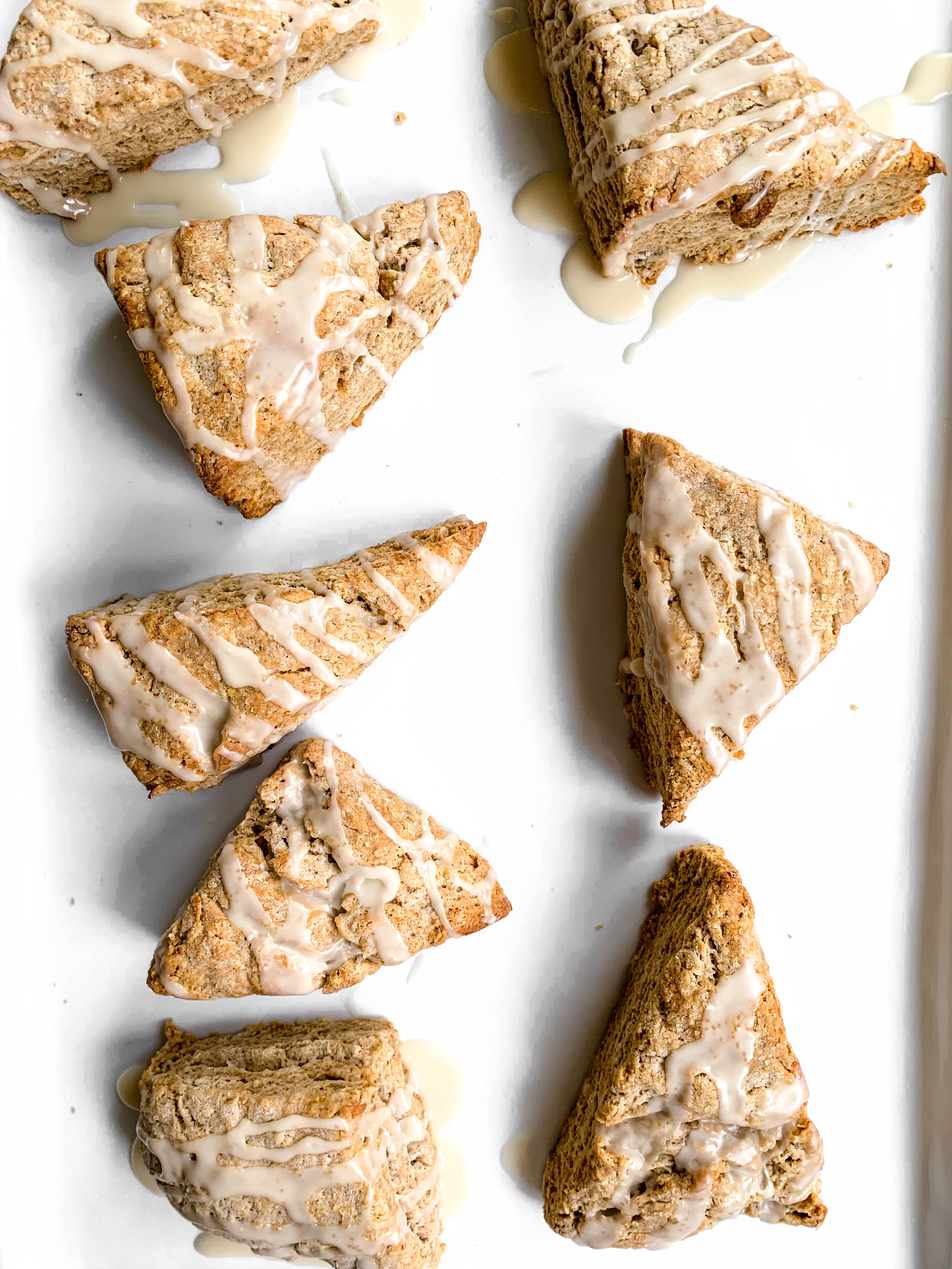
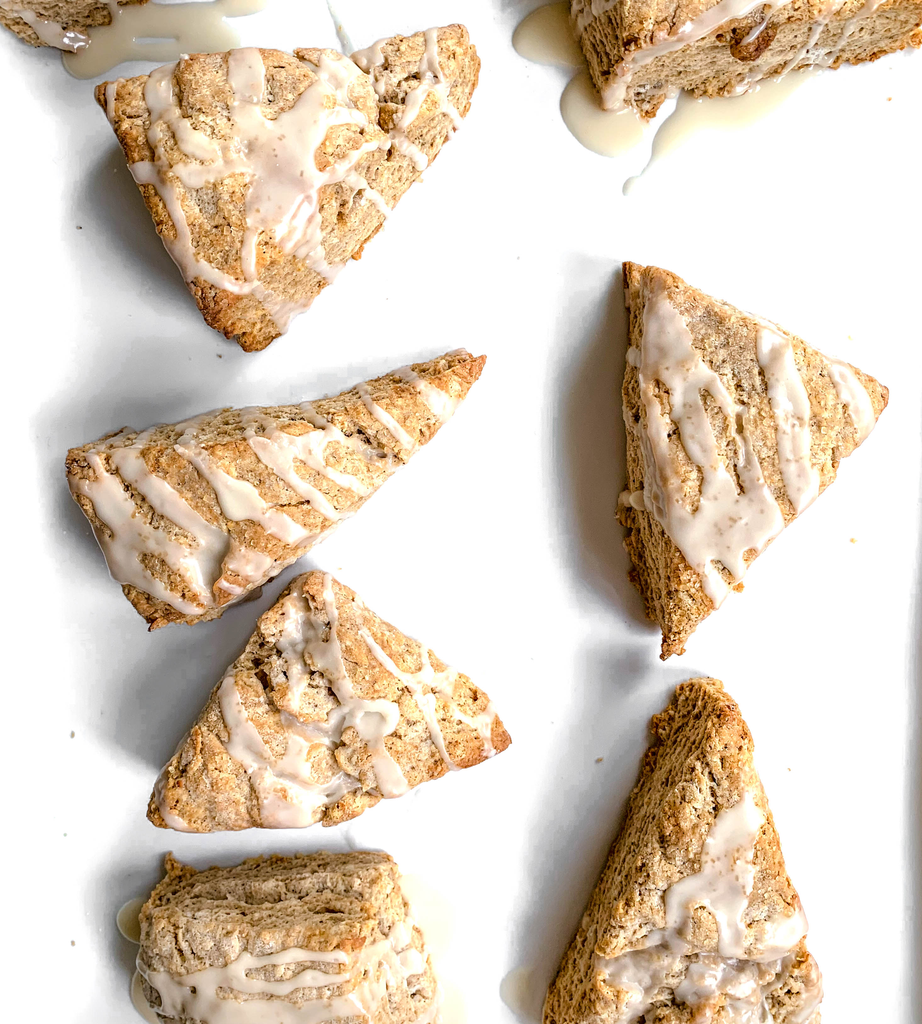
updated chai scone picture

diff --git a/src/pages/spiced-chai-latte-scones/index.md b/src/pages/spiced-chai-latte-scones/index.md
@@ -7,9 +7,9 @@ lead: This scone is the real freaking deal.
 ---
 So I may make an unpopular statement, but I have never been the biggest fan of scones. I know, I know- “seriously, Zoe? What is wrong with you?” Truth is, the ones I ate just did not impress me. If I am going to eat something sweet I want it to be delicious. Well friends, I can finally say I am now a scone believer. 
 
-![](ChaiLatteScone3.jpg)
+![](ChaiLatteScone2.jpg)
 
-You haven’t had a true scone until you try these incredible Spiced Chai Latte Scones. These are seriously what scone dreams are made of. Fluffy, full of layers, and full of flavor. I can’t get enough of these and I promise you won’t be able to either!
+You haven’t had a true scone until you try these incredible Spiced Chai Latte Scones. These are seriously what scone dreams are made of. Fluffy, full of beautfiul layers, and complete with amazing flavor. I can’t get enough of these and I promise you won’t be able to either!
 
 ## The Recipe
 ### February 16, 2019
